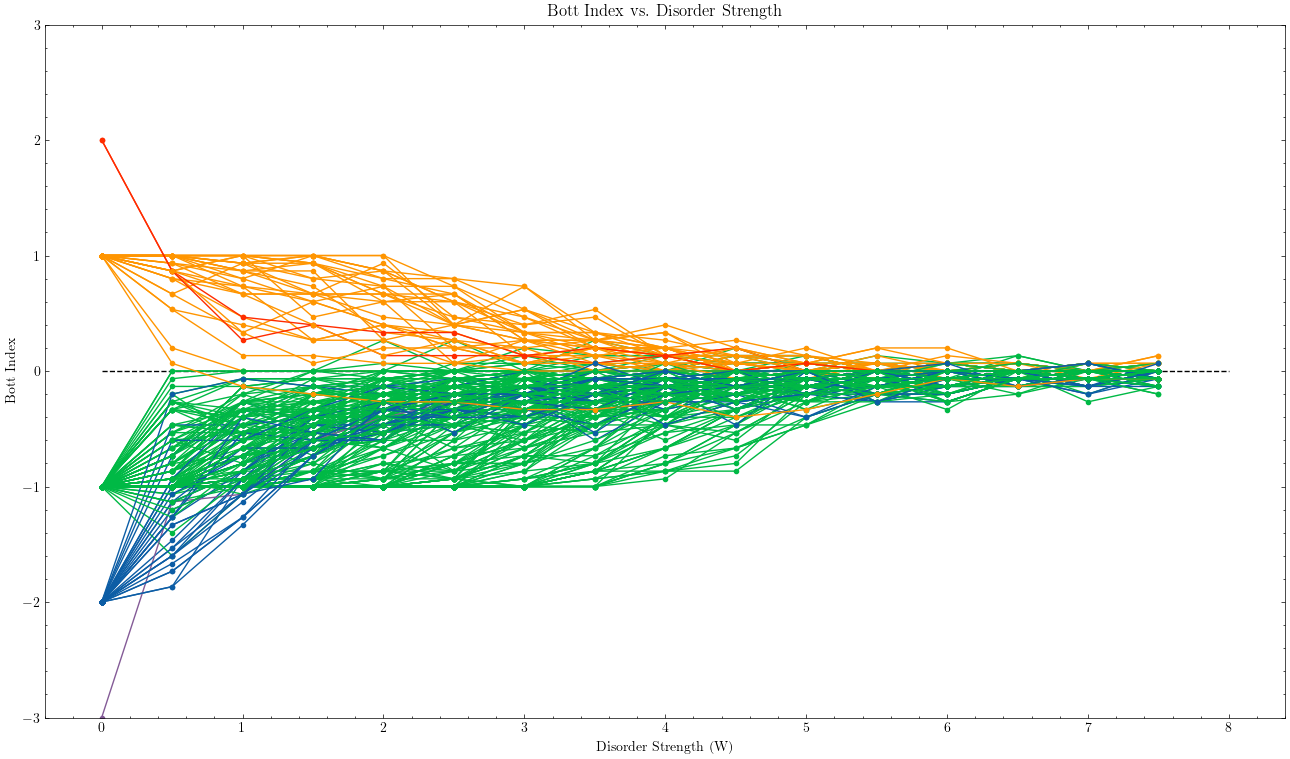
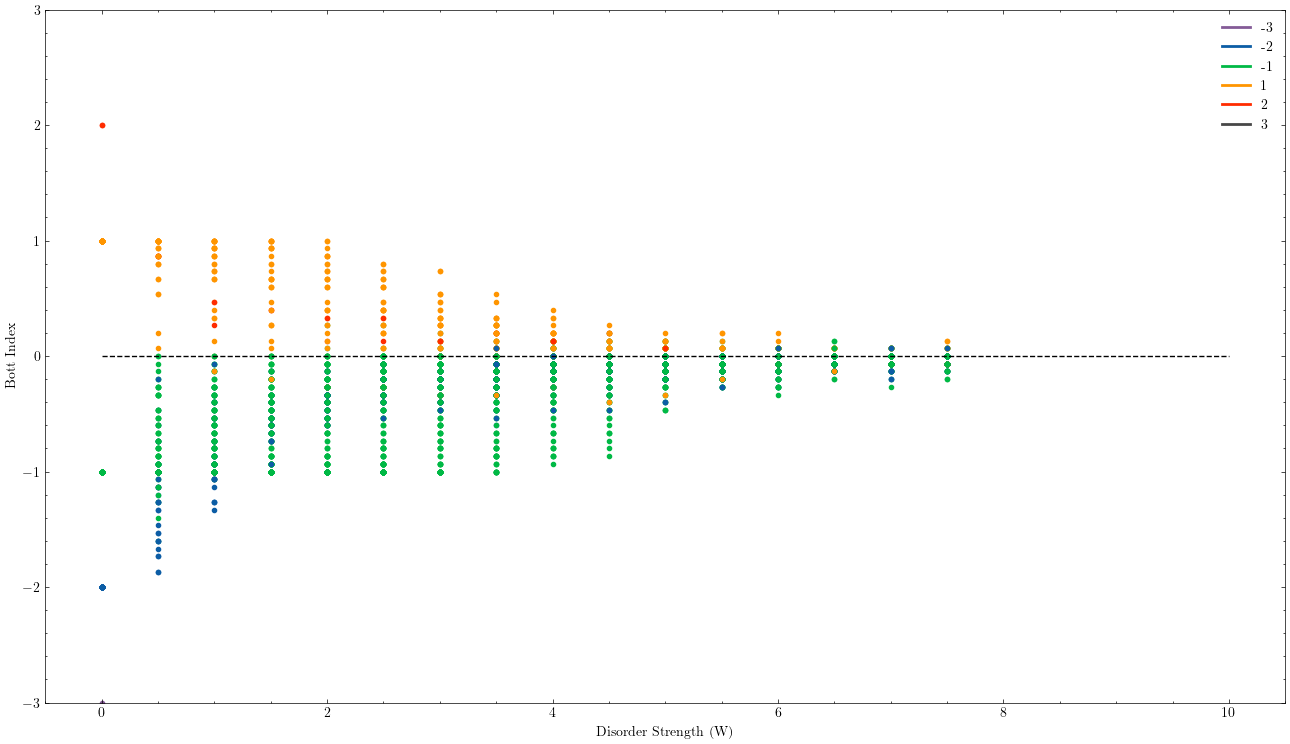
alternate bott plotting (imshow), fixed reading dict from npz, better plot styles

diff --git a/Project_1/phase_diagram.py b/Project_1/phase_diagram.py
@@ -60,6 +60,9 @@ def plot_disorder(filename:str, doShow:bool, doSave:bool, title:str=None) -> Non
     """
     try:
         data, params = _read_npz_data(filename)
+        if params is not None:
+            params = params[()]
+
     except Exception as e:
         print(f"Error with {filename}: {e}")
         data = None
@@ -68,27 +71,43 @@ def plot_disorder(filename:str, doShow:bool, doSave:bool, title:str=None) -> Non
         num = data.shape[0]
 
         fig, ax = plt.subplots(1,1,figsize=(16,9))
-        ax.set_title(title)
+
+        #Set title, labels
+        if title is None:
+            if params is not None:
+                plt.title(f"Bott Index of Fractal Lattice, Method of {params['method']}, Order = {params['order']}")
+        else:
+            plt.title(title)
+
         ax.set_xlabel("Disorder Strength (W)")
         ax.set_ylabel("Bott Index")
         ax.set_ylim([-3, 3])
 
 
+        #list of colors and respective bott index
+        colors = ['#845B97', '#0C5DA5', '#00B945', '', '#FF9500', '#FF2C00', '#474747']
+        bott_vals = [-3, -2, -1, 0, 1, 2, 3]
 
-        color_list = ['#845B97', '#0C5DA5', '#00B945', '', '#FF9500', '#FF2C00', '#474747']
-        ax.hlines(0, 0, 8, colors='k', ls='--')
+        #horizontal line at 0
+        if params is not None:
+            maxval = params['W_values'].max()
+        else:
+            maxval = 10
+            
+        ax.hlines(0, 0, maxval, colors='k', ls='--')
+
         for i in range(num):
             if data[i][0,1] is not np.nan:
                 x = data[i][0] #disorder value
                 y = data[i][1] #bott index after disorder
 
                 if True:
-                    if y[0] not in [-3, -2, -1, 1, 2, 3]:
+                    if y[0] not in bott_vals:
                         print(f"Initial bott index is not in [-3, -2, -1, 1, 2, 3]. Value is {y[0]}")
-                        ax.plot(x, y, label=f"{i}", c='black', marker='.')
+                        ax.scatter(x, y, c='black', marker='.')
                     
                     try:
-                        ax.plot(x, y, label=f"{i}", c=color_list[int(y[0]+3)], marker='.')
+                        ax.scatter(x, y, c=colors[int(y[0]+3)], marker='.')
 
                     except Exception as e:
                         print(f"Caught exception: {e}")
@@ -96,8 +115,13 @@ def plot_disorder(filename:str, doShow:bool, doSave:bool, title:str=None) -> Non
                 else:
                     ax.plot(x, y, label=f"{i}")
 
-        if False:
-            ax.legend(True)
+        #Add legend
+        if True:
+            #Dummy artists
+            colors.remove('')
+            bott_vals.remove(0)
+            dummy_artists = [plt.Line2D([0], [0], color=color, lw=2) for color in colors]
+            ax.legend(dummy_artists, bott_vals)
 
         if doSave and filename.endswith(".npz"):
             figname = filename[:-4]+".png"
@@ -115,6 +139,9 @@ def plot_bott(filename:str, doShow:bool=True, doSave:bool=True, title:str=None) 
     #read array from file
     try:
         data, params = _read_npz_data(filename)
+        if params is not None:
+            params = params[()]
+
     except Exception as e:
         print(f"Error with {filename}: {e}")
         data = None
@@ -163,6 +190,75 @@ def plot_bott(filename:str, doShow:bool=True, doSave:bool=True, title:str=None) 
             plt.show()
 
 
+def plot_bott_imshow(filename:str, doShow:bool=True, doSave:bool=True, title:str=None) -> None:
+    """
+    Phase diagram using imshow. 
+    """
+    #read array from file
+    try:
+        data, params = _read_npz_data(filename)
+        if params is not None:
+            params = params[()]
+
+    except Exception as e:
+        print(f"Error with {filename}: {e}")
+        data = None
+
+    if data is not None:
+
+        #check that array is of proper shape
+        if data.shape[0] != 3:
+            raise Exception(f"The array from the {filename} is not of proper shape. The first dimension must have size 3. ")
+
+        #values
+        M = data[0]
+        B_tilde = data[1]
+        bott = data[2]
+
+        #unique values
+        M_vals = np.unique(M)
+        B_tilde_vals = np.unique(B_tilde)
+
+        #bounds for plot
+        x_bounds = (M_vals.min(), M_vals.max())
+        y_bounds = (B_tilde_vals.min(), B_tilde_vals.max())
+
+        #organize the bott array into a surface over the meshgrid
+        arrs = np.split(bott, M_vals.size)
+        Z = np.stack(arrs, axis=0)
+
+        fig = plt.figure(figsize=(10,10))
+        plt.imshow(Z, extent=[x_bounds[0], x_bounds[1], y_bounds[0], y_bounds[1]], origin='lower', aspect='auto', cmap='viridis')
+        cbar = plt.colorbar(label='Bott Index')
+        cbar.set_label('Bott Index', rotation=0)
+
+        x_ticks = np.linspace(x_bounds[0], x_bounds[1], 5)
+        y_ticks = np.linspace(y_bounds[0], y_bounds[1], 5)
+        plt.xticks(ticks=x_ticks, labels=np.round(x_ticks, 2))
+        plt.yticks(ticks=y_ticks, labels=np.round(y_ticks, 2))
+
+        plt.xlabel("M")
+        plt.ylabel("B_tilde", rotation=0)
+
+        #Set title
+        if title is None:
+            if params is not None:
+                plt.title(f"Bott Index of Fractal Lattice, Method of {params['method']}, Order = {params['order']}")
+        else:
+            plt.title(title)
+        
+        #check proper filename format
+        if doSave and filename.endswith(".npz"):
+            figname = filename[:-4]+".png"
+            plt.savefig(figname)
+        elif not filename.endswith(".npz"):
+            raise Exception("Filename does not end in '.npz'; trying to save figure as '.png'")
+        
+        # Display figure
+        if doShow:
+            plt.show()
+
+
 def get_all_npz(dir:str=".") -> list:
     """
     Gets a list of all .npz files in the provided directory
@@ -193,7 +289,7 @@ def plot_all_npz(dir:str=".") -> None:
             plot_disorder(f, False, True)
         elif f.startswith("bott"):
             print(f)
-            plot_bott(f, False, True)
+            plot_bott_imshow(f, False, True)
 
 
 

diff --git a/ProjectCode_1/plot_phase_diagram.py b/ProjectCode_1/plot_phase_diagram.py
@@ -1,0 +1,72 @@
+
+import numpy as np
+import matplotlib.pyplot as plt
+
+def create_z_array(data):
+    """
+    Create a z_array from the given 2D data array.
+
+    Parameters:
+    data (ndarray): 2D numpy array where each row is [x, y, z].
+
+    Returns:
+    z_array (ndarray): 2D array of z values.
+    x_bounds (tuple): (min_x, max_x)
+    y_bounds (tuple): (min_y, max_y)
+    """
+    x_values = np.unique(data[:, 0])
+    y_values = np.unique(data[:, 1])
+    z_array = np.zeros((len(y_values), len(x_values)))
+    z_array[(np.searchsorted(y_values, data[:, 1]), np.searchsorted(x_values, data[:, 0]))] = data[:, 2]
+
+    x_bounds = (x_values.min(), x_values.max())
+    y_bounds = (y_values.min(), y_values.max())
+
+    return z_array, x_bounds, y_bounds
+
+def plot_z_array(z_array, x_bounds, y_bounds, N=5, cmap='viridis', xlabel='x', ylabel='y', title='Phase Diagram'):
+    """
+    Plot the z_array using imshow with specified bounds and labels.
+
+    Parameters:
+    z_array (ndarray): 2D array of z values.
+    x_bounds (tuple): (min_x, max_x)
+    y_bounds (tuple): (min_y, max_y)
+    N (int): Number of labels on each axis (including end points).
+    cmap (str): Colormap to use for the plot.
+    xlabel (str): Label for the x-axis.
+    ylabel (str): Label for the y-axis.
+    title (str): Title of the plot.
+    **kwargs: Additional keyword arguments for plt.imshow.
+    """
+    plt.imshow(z_array, extent=[x_bounds[0], x_bounds[1], y_bounds[0], y_bounds[1]], origin='lower', aspect='auto', cmap=cmap)
+    cbar = plt.colorbar(label='z value')
+    cbar.set_label('z value', rotation=0)
+
+    x_ticks = np.linspace(x_bounds[0], x_bounds[1], N)
+    y_ticks = np.linspace(y_bounds[0], y_bounds[1], N)
+    plt.xticks(ticks=x_ticks, labels=np.round(x_ticks, 2))
+    plt.yticks(ticks=y_ticks, labels=np.round(y_ticks, 2))
+
+    plt.xlabel(xlabel)
+    plt.ylabel(ylabel, rotation=0)
+    plt.title(title)
+    plt.show()
+
+def main():
+    # Example data array where each row is [x, y, z]
+    data = np.array([
+        [-2, -3, 0.1], [-2, -2.5, 0.2], [-2, -2, 0.3],
+        [-1.75, -3, 0.4], [-1.75, -2.5, 0.5], [-1.75, -2, 0.6],
+        [0, 0, 0.7], [0.5, 0.5, 0.8], [1, 1, 0.9]
+        # Add more data points as needed
+    ])
+
+    # Create z_array and bounds
+    z_array, x_bounds, y_bounds = create_z_array(data)
+
+    # Plot the z_array
+    plot_z_array(z_array, x_bounds, y_bounds, N=5, cmap='plasma', xlabel='X-axis', ylabel='Y-axis', title='Customized Phase Diagram')
+
+if __name__ == "__main__":
+    main()

diff --git a/Project_1/compute_bott_disorder.py b/Project_1/compute_bott_disorder.py
@@ -1,6 +1,6 @@
 import numpy as np
 from project_execute import _init_environment, _many_bott, _many_disorder
-from phase_diagram import _save_npz_data, plot_disorder, plot_bott, plot_all_npz
+from phase_diagram import _save_npz_data, plot_disorder, plot_bott, plot_all_npz, plot_bott_imshow
 
 import inspect
 
@@ -15,13 +15,13 @@ def run_computation(doDisorder:bool=True, plotBott:bool=False, plotDisorder:bool
         order = 3,
         pad_width = 0,
         pbc = True,
-        n = 12,
+        n = 1,
         M_values =         np.linspace(-2.0, 12.0, 2),
         B_tilde_values =   np.linspace(0.0, 2.0, 2),
-        W_values =         np.linspace(0.5, 10, 5),
+        W_values =         np.linspace(0.0, 12.5, 28, endpoint=False) + (12.5/28),
         iterations_per_disorder = 10,
         E_F = 0.0,
-        num_jobs = 4,
+        num_jobs = 28,
         cores_per_job = 1,
         sparse = False,
         progress_bott = True,
@@ -45,7 +45,7 @@ def run_computation(doDisorder:bool=True, plotBott:bool=False, plotDisorder:bool
 
     # Plot Bott Index data
     if plotBott:
-        plot_bott(end_filename_bott, False, True, f"Bott Index, Method of {parameters["method"]}, Order = {parameters["order"]}")
+        plot_bott_imshow(end_filename_bott, False, True, f"Bott Index, Method of {parameters['method']}, Order = {parameters['order']}")
 
 
     # Compute disorder
@@ -63,7 +63,7 @@ def run_computation(doDisorder:bool=True, plotBott:bool=False, plotDisorder:bool
 
         # Plot the disorder data
         if plotDisorder:
-            plot_disorder(end_filename_disorder, False, True, f"Bott Index vs. Disorder, Method of {parameters["method"]}, Order = {parameters["order"]}")
+            plot_disorder(end_filename_disorder, False, True, f"Bott Index vs. Disorder, Method of {parameters['method']}, Order = {parameters['order']}")
 
 
 
@@ -78,4 +78,4 @@ def main2():
 
 
 if __name__ == "__main__":
-    main()
+    main2()

diff --git a/Project_1/test.py b/Project_1/test.py
@@ -1,0 +1,14 @@
+import numpy as np
+
+
+
+
+
+arr = np.linspace(0, 12.5, 10, endpoint=False)
+
+print(arr)
+
+d = arr[1]-arr[0]
+
+arr2 = arr + d
+print(arr2)
